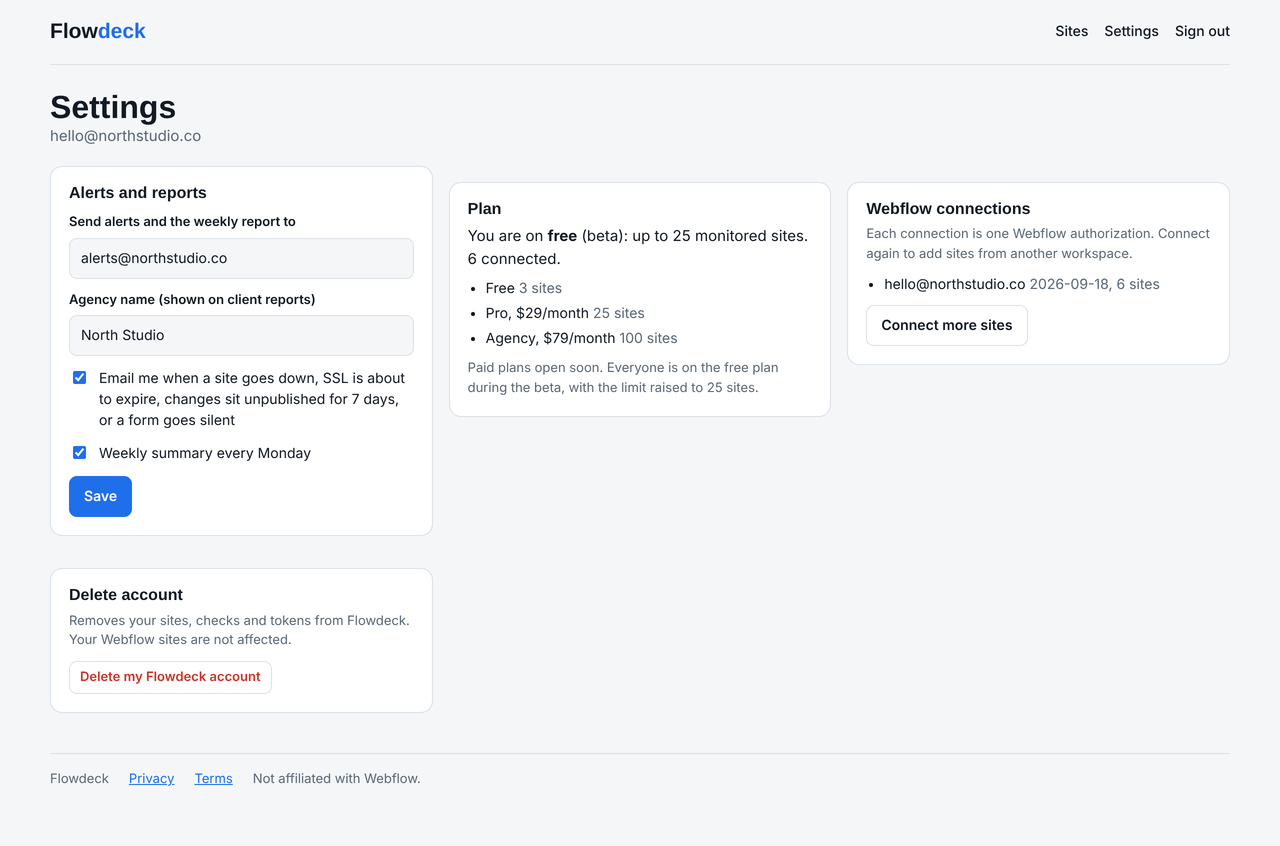
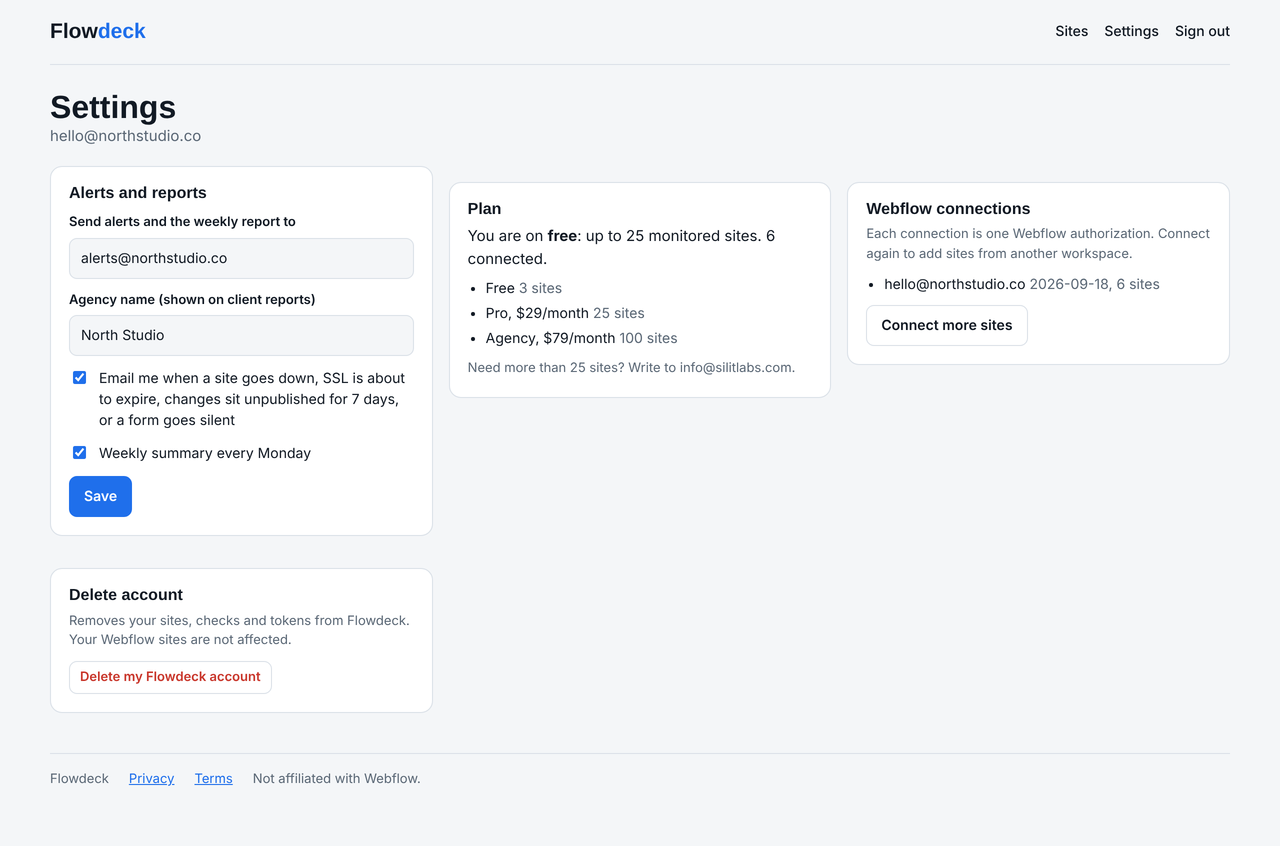
Remove beta wording for Marketplace review, simplify pricing, add install URL and alt text
Claude-Session: https://claude.ai/code/session_01XtbaGHy5N635RygHHEY59Z

Changed region(s): [[0.375, 0.2766, 0.625, 0.3381], [0.375, 0.4303, 0.625, 0.461]]

diff --git a/public/index.html b/public/index.html
@@ -63,7 +63,7 @@
     <p class="lead muted">Flowdeck watches all your Webflow sites and tells you before the client does: a site went down, the SSL is about to expire, changes have sat unpublished for a week, a form stopped receiving submissions, or a CMS is near its limit. Plus a white-label report you can send every month.</p>
     <div class="actions">
       <a class="btn primary" href="/auth">Connect your Webflow sites</a>
-      <span class="muted" style="font-size:14px">Free during beta, up to 25 sites. Read-only access, nothing on your sites changes.</span>
+      <span class="muted" style="font-size:14px">Free for up to 25 sites. Read-only access, nothing on your sites changes.</span>
     </div>
     <div class="demo"><div class="scroll"><table>
       <thead><tr><th>Site</th><th>Status</th><th>Uptime 7d</th><th>SSL</th><th>Publish</th><th>Forms 7d / 30d</th><th>CMS items</th><th>SEO</th></tr></thead>
@@ -93,11 +93,10 @@
   <section id="pricing">
     <div><span class="eyebrow">Pricing</span><h2>Per workspace, not per seat</h2></div>
     <div class="price">
-      <div class="card"><h3>Free</h3><div class="n">$0</div><p class="muted">3 sites. During the beta, 25.</p><ul><li>All checks and alerts</li><li>Weekly summary</li><li>Client report links</li></ul></div>
-      <div class="card"><h3>Pro</h3><div class="n">$29<span class="muted" style="font-size:14px;font-weight:400">/month</span></div><p class="muted">Up to 25 sites.</p><ul><li>Everything in Free</li><li>Priority checks</li><li>Email support</li></ul></div>
-      <div class="card"><h3>Agency</h3><div class="n">$79<span class="muted" style="font-size:14px;font-weight:400">/month</span></div><p class="muted">Up to 100 sites.</p><ul><li>Everything in Pro</li><li>Team members (coming)</li><li>Custom report domain (coming)</li></ul></div>
+      <div class="card"><h3>Free</h3><div class="n">$0</div><p class="muted">Up to 25 sites.</p><ul><li>All checks and alerts</li><li>Weekly summary</li><li>Client report links</li></ul></div>
+      <div class="card"><h3>More than 25 sites</h3><div class="n">Ask us</div><p class="muted">Write to info@silitlabs.com and we will raise your limit.</p><ul><li>Everything in Free</li><li>Higher site limit</li><li>Email support</li></ul></div>
     </div>
-    <p class="muted" style="font-size:14px">Paid plans open after the beta. Nothing you set up now changes.</p>
+    <p class="muted" style="font-size:14px">There are no in-app purchases. If paid plans are added later, existing sites keep working on the free plan.</p>
   </section>
 
   <section id="faq" class="faq">

diff --git a/api/_lib/html.js b/api/_lib/html.js
@@ -260,9 +260,9 @@ ${notice ? `<div class="notice">${notice}</div>` : ''}
 <label class="check"><input type="checkbox" name="digest" value="1" ${user.settings.digest !== false ? 'checked' : ''}> Weekly summary every Monday</label>
 <div class="actions"><button class="btn primary" type="submit">Save</button></div>
 </form></div>
-<div class="panel" id="plan"><h3>Plan</h3><p style="margin-top:6px">You are on <strong>${esc(user.plan)}</strong>${user.plan === 'free' && limit > PLAN_LIMITS.free ? ' (beta)' : ''}: up to ${limit} monitored sites. ${sites.length} connected.</p>
+<div class="panel" id="plan"><h3>Plan</h3><p style="margin-top:6px">You are on <strong>${esc(user.plan)}</strong>: up to ${limit} monitored sites. ${sites.length} connected.</p>
 <ul class="issues" style="margin-top:8px"><li>Free <span>3 sites</span></li><li>Pro, $29/month <span>25 sites</span></li><li>Agency, $79/month <span>100 sites</span></li></ul>
-<p class="muted small" style="margin-top:10px">Paid plans open soon. Everyone is on the free plan during the beta, with the limit raised to 25 sites.</p></div>
+<p class="muted small" style="margin-top:10px">Need more than ${limit} sites? Write to info@silitlabs.com.</p></div>
 <div class="panel"><h3>Webflow connections</h3><p class="muted small" style="margin:6px 0 10px">Each connection is one Webflow authorization. Connect again to add sites from another workspace.</p>
 <ul class="issues">${user.connections.map((c) => `<li>${esc(c.label || 'Connection')} <span>${new Date(c.authorizedAt).toISOString().slice(0, 10)}, ${sites.filter((s) => s.connectionId === c.id).length} sites</span></li>`).join('') || '<li class="muted">None yet</li>'}</ul>
 <div class="actions" style="margin-top:10px"><a class="btn" href="/auth">Connect more sites</a></div></div>

diff --git a/public/terms.html b/public/terms.html
@@ -35,7 +35,7 @@
   <h2>Monitoring is best effort</h2>
   <p>Checks run on a schedule from a single region. A failed check can be a network hiccup rather than an outage, and an outage shorter than the check interval can be missed. Flowdeck is not a substitute for Webflow's own status page or your hosting provider's guarantees.</p>
   <h2>Pricing</h2>
-  <p>Flowdeck is free during its beta with a raised site limit. Paid plans will be announced before they take effect; sites you connected under the free plan keep working within the free plan's limits.</p>
+  <p>Flowdeck is free for up to 25 sites. If paid plans are introduced, they will be announced before they take effect, and sites you connected under the free plan keep working within the free plan's limits.</p>
   <h2>Liability</h2>
   <p>To the extent permitted by law, Flowdeck's developer is not liable for lost revenue, lost clients, or indirect damages arising from the use of the service, including missed or delayed alerts. Total liability is limited to the amount you paid in the twelve months before the claim.</p>
   <h2>Trademarks</h2>

diff --git a/assets/listing.md b/assets/listing.md
@@ -33,7 +33,7 @@ Agencies and freelancers run ten, thirty, a hundred Webflow sites. Nobody opens 
 - Submission counts only; the content of form submissions is never read or stored.
 - Delete your account from Settings and all data goes with it.
 
-Free during beta for up to 25 sites. Not affiliated with Webflow.
+Free for up to 25 sites. Not affiliated with Webflow.
 
 ## Feature list (up to 5)
 1. Uptime and SSL monitoring for every site, every 5 minutes
@@ -46,7 +46,7 @@ Free during beta for up to 25 sites. Not affiliated with Webflow.
 Analytics, SEO, Utilities, Marketing, Automation
 
 ## URLs
-- Website: https://flowdeck.silitlabs.com (custom domain later)
+- Website: https://flowdeck.silitlabs.com
 - Privacy policy: https://flowdeck.silitlabs.com/privacy
 - Terms of service: https://flowdeck.silitlabs.com/terms
 - Support email: info@silitlabs.com
@@ -62,10 +62,20 @@ assets/logo-900.png (900x900 PNG). Upload name: flowdeck-logo.png
 5. The weekly summary email
 
 ## Review notes
-Free app, no in-app purchases yet. Data Client app with read-only scopes (authorized_user:read, sites:read, pages:read, cms:read, forms:read). The app reads site metadata, page SEO fields, form submission dates and CMS item counts, stores the OAuth token encrypted for scheduled checks, and performs HTTP uptime checks against the published site. It never writes to a site. To test: sign in, allow one or more sites, open the dashboard; uptime appears within 5 minutes; use Refresh data for forms, CMS and SEO; Settings lets you delete the account.
+Free app for up to 25 sites, no in-app purchases. Data Client app with read-only scopes (authorized_user:read, sites:read, pages:read, cms:read, forms:read). The app reads site metadata, page SEO fields, form submission dates and CMS item counts, stores the OAuth token encrypted for scheduled checks, and performs HTTP uptime checks against the published site. It never writes to a site. To test: sign in, allow one or more sites, open the dashboard; uptime appears within 5 minutes; use Refresh data for forms, CMS and SEO; Settings lets you delete the account. If the user denies access on the Webflow consent screen, Flowdeck shows an "Authorization cancelled" page with a link back to the start; nothing is stored.
 
 ## Scopes to request in the app settings
 authorized_user:read, sites:read, pages:read, cms:read, forms:read
 
 ## Redirect URI
 https://flowdeck.silitlabs.com/callback
+
+## Install URL (Data Client, direct to Webflow OAuth)
+https://webflow.com/oauth/authorize?response_type=code&client_id=a2bf2dbad02033581d75ec35cadf0663c6b4cfdfb659598e41af62ccbbc97ea2&scope=authorized_user%3Aread+sites%3Aread+pages%3Aread+cms%3Aread+forms%3Aread
+
+## Screenshot alt text
+1. Flowdeck dashboard listing six Webflow sites with uptime, SSL, publish state, form counts, CMS usage and SEO flags; one site marked Down
+2. Site detail page with 7-day uptime bars, per-form submission table, CMS collections and SEO issues by page
+3. White-label client report showing the agency name, 30-day uptime, form submissions and SEO health for one site
+4. Settings page with alert email, agency name, alert and weekly summary options and the connected Webflow accounts
+5. Weekly summary email listing every site with uptime, submissions, SEO issues and flags
